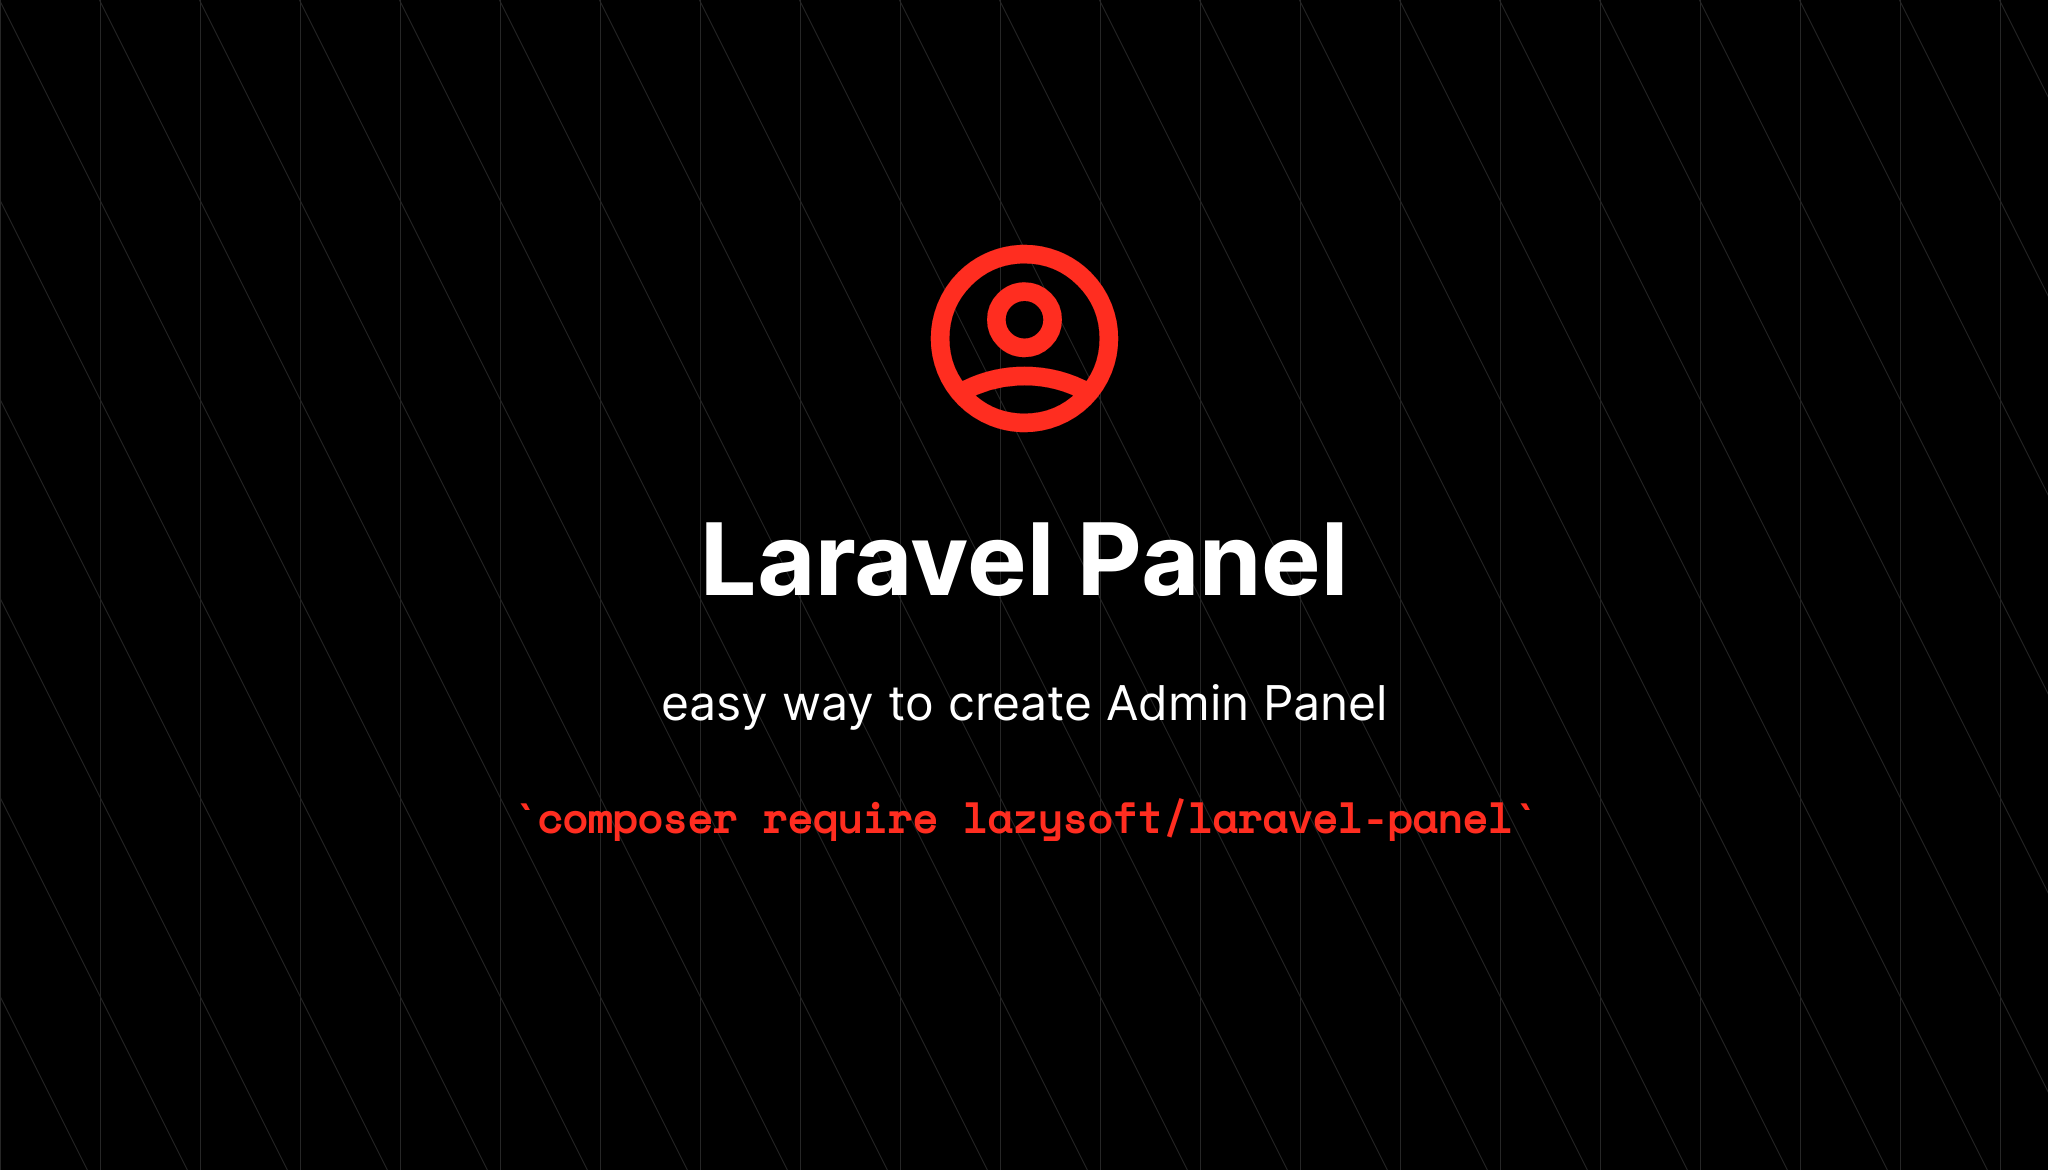
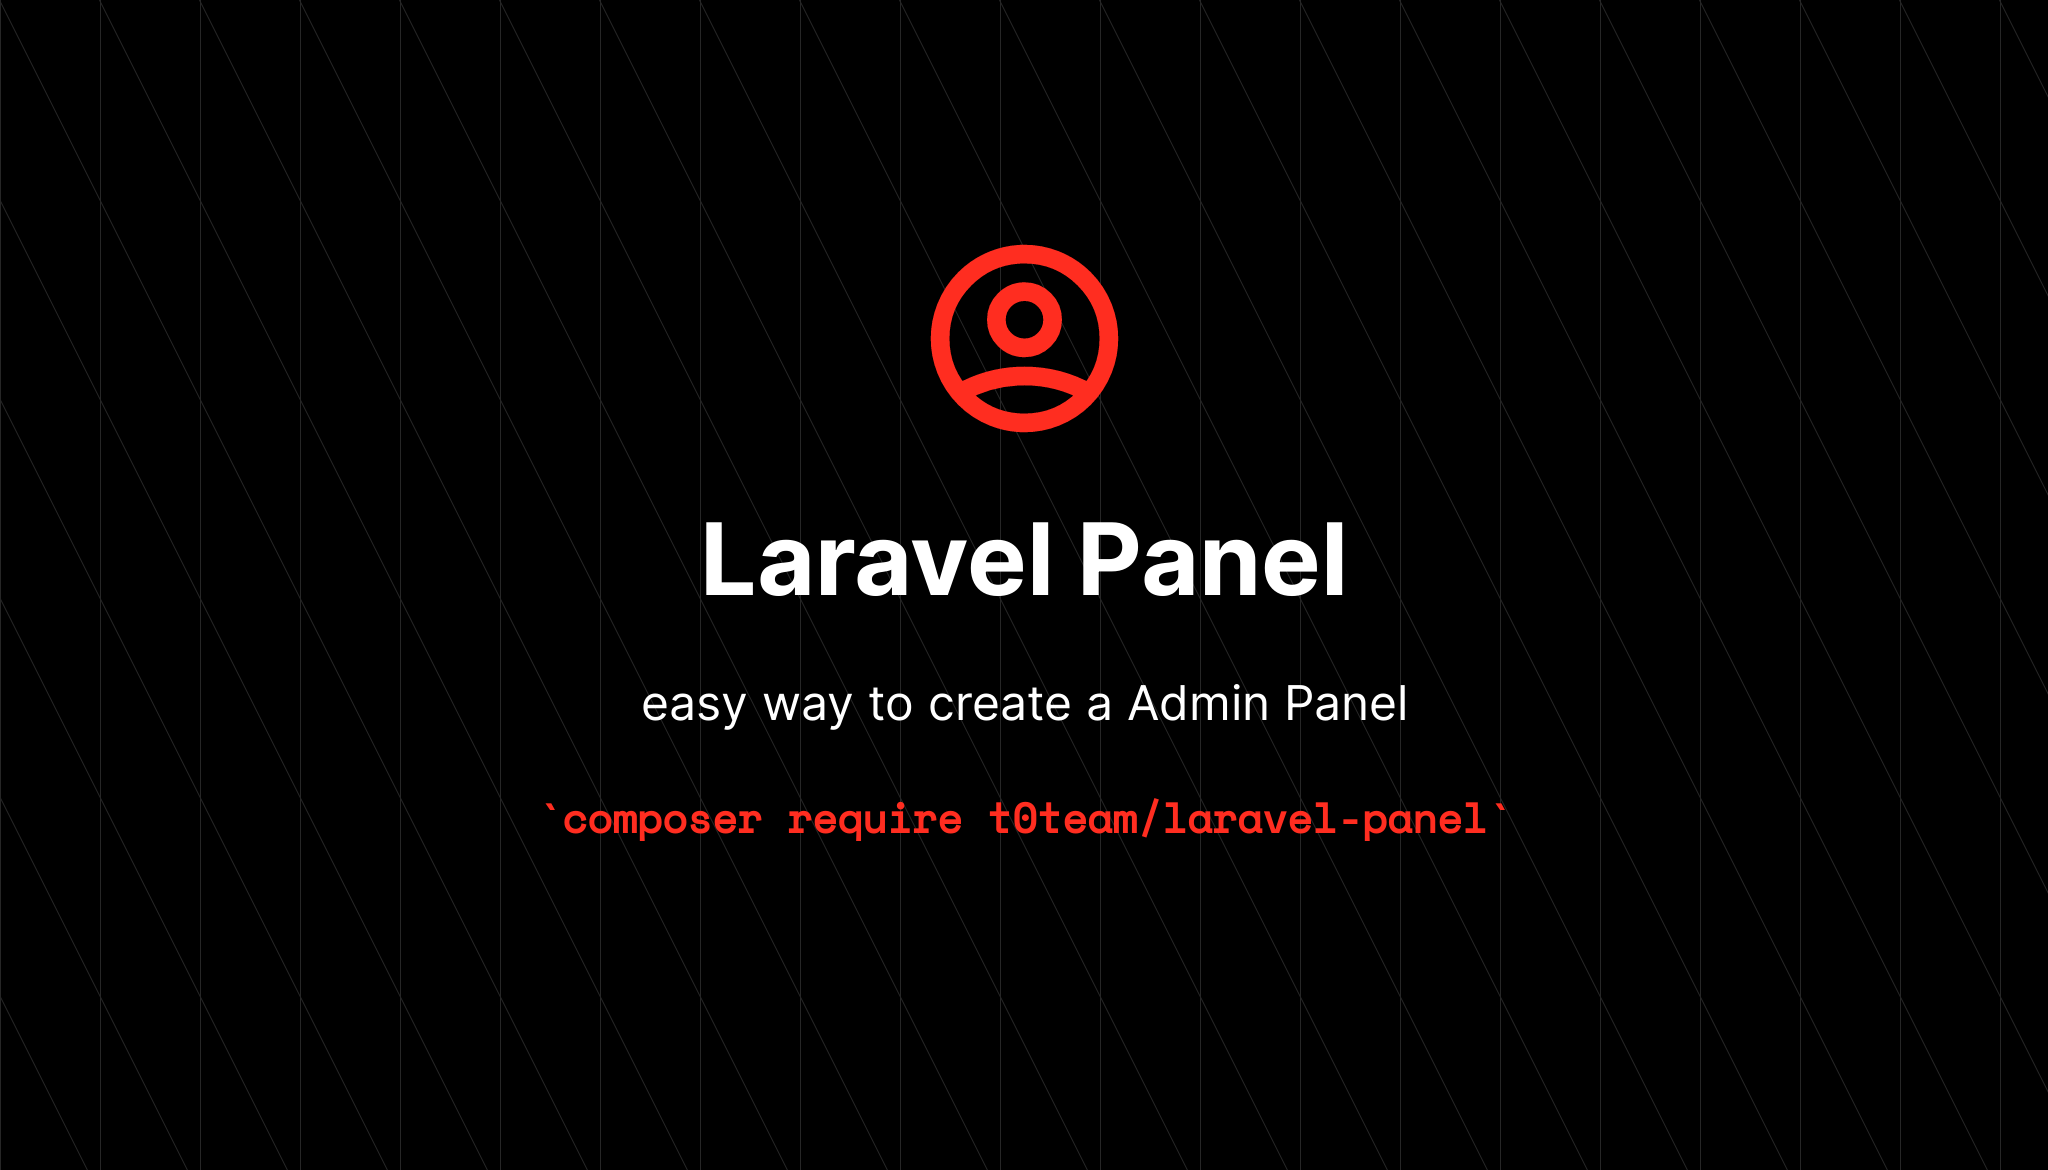
fix: info

Changed region(s): [[0.25, 0.6769, 0.75, 0.7385], [0.3125, 0.5846, 0.6875, 0.6154]]

diff --git a/roadmap.md b/roadmap.md
@@ -4,7 +4,7 @@ icon: versions
 
 # Roadmap
 
-The entire release archives of Laravel Panel is available on [Packagist](https://packagist.org/packages/lazysoft/laravel-panel)
+The entire release archives of Laravel Panel is available on [Packagist](https://packagist.org/packages/t0team/laravel-panel)
 
 !!!
 Need a new feature in Laravel Panel? Start a [discussion](https://github.com/t0team/laravel-panel/discussions) and let's chat. :icon-comment:
@@ -91,6 +91,6 @@ Released: [2022-09-07](https://github.com/t0team/laravel-panel/releases/tag/v0.0
 +++ New :icon-shield-check:
 
 - [x] First release
-- [x] Publish to [Packagist](https://packagist.org/packages/lazysoft/laravel-panel)
+- [x] Publish to [Packagist](https://packagist.org/packages/t0team/laravel-panel)
 
 +++

diff --git a/quick-start/start.md b/quick-start/start.md
@@ -35,7 +35,7 @@ For show view in panel, You must:
 ```php
 // app/Http/Controllers/UsersController.php
 
-use LazySoft\LaravelPanel\Facades\Panel;
+use T0team\LaravelPanel\Facades\Panel;
 
 class UsersController extends Controller
 {

diff --git a/features/make-view.md b/features/make-view.md
@@ -8,7 +8,7 @@ label: Make View
 For show view in panel, You must:
 
 ```php
-use LazySoft\LaravelPanel\Facades\Panel;
+use T0team\LaravelPanel\Facades\Panel;
 
 $panel = Panel::view('users.index');
 ```

diff --git a/features/make-table.md b/features/make-table.md
@@ -8,7 +8,7 @@ label: Make Table
 For make a table in panel, You must:
 
 ```php
-use LazySoft\LaravelPanel\Facades\Panel;
+use T0team\LaravelPanel\Facades\Panel;
 
 $headers = [
     'id' => 'ID',

diff --git a/quick-start/installation.md b/quick-start/installation.md
@@ -8,7 +8,7 @@ order: 99
 
 You can install the package via composer:
 ```bash
-composer require lazysoft/laravel-panel
+composer require t0team/laravel-panel
 ```
 ---
 
